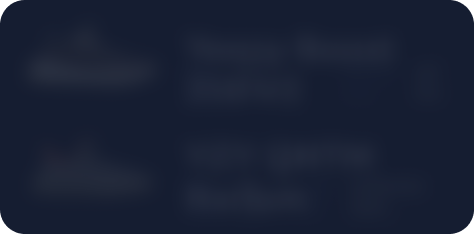
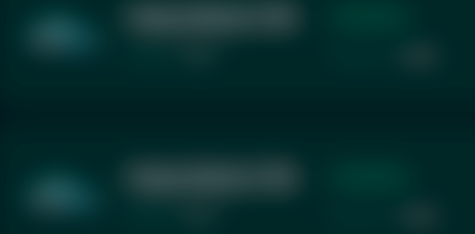
disign

diff --git a/src/components/dashboard-layout/product/components/info/Info.tsx b/src/components/dashboard-layout/product/components/info/Info.tsx
@@ -1,30 +1,30 @@
 import { InfoList } from "../../../../../types/types"
 import Property from "../../../../ui/property/Property"
 import "./info.scss"
-import date_png from "../../../../../assets/imgs/actions/date.png"
-import price_png from "../../../../../assets/imgs/actions/price.png"
+import date_green_png from "../../../../../assets/imgs/actions/date_green.svg"
+import price_green_png from "../../../../../assets/imgs/actions/price_green.svg"
 
 function Info({ info }: { info: (string | null)[] }) {
   const infoList: InfoList[] = [
     {
       title: "Дата покупки",
       value: info[0],
-      img: date_png,
+      img: date_green_png,
     },
     {
       title: "Дата продажи",
       value: info[1],
-      img: date_png,
+      img: date_green_png,
     },
     {
       title: "Цена покупки",
       value: info[2],
-      img: price_png,
+      img: price_green_png,
     },
     {
       title: "Цена продажи",
       value: info[3],
-      img: price_png,
+      img: price_green_png,
     },
   ]
 

diff --git a/src/components/dashboard-layout/statistic/blocks/analysis-block/analysis-size/AnalysisSize.tsx b/src/components/dashboard-layout/statistic/blocks/analysis-block/analysis-size/AnalysisSize.tsx
@@ -2,7 +2,7 @@ import { useDispatch, useSelector } from "react-redux"
 import { newContextBlock } from "../../../../../../redux/slices/dialogSlice"
 import SelectText from "../../../../../ui/selects/SelectText"
 import "./analysis-size.scss"
-import { useRef } from "react"
+import { useEffect, useRef } from "react"
 import AnalysisSizeItem from "./item/AnalysisSizeItem"
 
 function AnalysisSize() {
@@ -35,6 +35,10 @@ function AnalysisSize() {
       )
     }
   }
+
+  useEffect(() => {
+    console.log(currentContext)
+  }, [currentContext])
 
   return (
     <div ref={titleRef} className="analysis-sizes">

diff --git a/src/components/ui/fields/fields.scss b/src/components/ui/fields/fields.scss
@@ -15,7 +15,7 @@
     &__input{
         outline: none;
         border: none;
-        border-bottom: 2px solid #394974;
+        border-bottom: 2px solid $color-quaternary;
         background-color: transparent;
         width: 100%;
         padding: .5em 0;
@@ -23,10 +23,10 @@
         color: #ffffff;
         transition: border-bottom .2s;
         &.active{
-            border-bottom: 2px solid #576eae;
+            border-bottom: 2px solid $color-quaternary-light;
         }
         &::placeholder{
-            color: #394974;
+            color: $color-quaternary;
         }
     }
     .loading{

diff --git a/src/components/ui/selects/selects.scss b/src/components/ui/selects/selects.scss
@@ -40,7 +40,7 @@
         outline: none;
         border: none;
         cursor: pointer;
-        border-bottom: 2px solid #394974;
+        border-bottom: 2px solid $color-quaternary;
         background-color: transparent;
         width: 100%;
         padding: .5em 0;
@@ -48,10 +48,10 @@
         color: #ffffff;
         transition: border-bottom .2s;
         &.active{
-            border-bottom: 2px solid #576eae;
+            border-bottom: 2px solid $color-quaternary-light;
         }
         &::placeholder{
-            color: #394974;
+            color: $color-quaternary;
         }
     }
 }

diff --git a/src/components/dashboard-layout/statistic/blocks/sales-block/SalesBlock.tsx b/src/components/dashboard-layout/statistic/blocks/sales-block/SalesBlock.tsx
@@ -27,7 +27,8 @@ function SalesBlock() {
       dateBuy: "",
       inStore: false,
       isSale: false,
-      priceSale: 0
+      priceSale: 0,
+      dateSale: ""
     },
     {
       id: 2,
@@ -51,7 +52,8 @@ function SalesBlock() {
       dateBuy: "",
       inStore: false,
       isSale: false,
-      priceSale: 0
+      priceSale: 0,
+      dateSale: ""
     },
     {
       id: 3,
@@ -75,7 +77,8 @@ function SalesBlock() {
       dateBuy: "",
       inStore: false,
       isSale: false,
-      priceSale: 0
+      priceSale: 0,
+      dateSale: ""
     }
   ]
 

diff --git a/src/components/dashboard-layout/product/components/card/Card.tsx b/src/components/dashboard-layout/product/components/card/Card.tsx
@@ -49,7 +49,7 @@ function Card() {
             {cardList[0].value 
             ? <>
                 <p className="card__info-name">{currentInfo?.name}</p>
-                <p className="card__info-size">{currentInfo?.sizeEU}</p>
+                <p className="card__info-size">{currentInfo?.sizeEU} EU</p>
                 <ul className="card__property-list">
                     {cardList.map((p:CardList) => <li key={p.title} className="card__property-item">
                         <Property title={p.title} value={p.value} />

diff --git a/src/components/dashboard-layout/inventory/content/products-list/item/preinfo/text/ProductText.tsx b/src/components/dashboard-layout/inventory/content/products-list/item/preinfo/text/ProductText.tsx
@@ -5,7 +5,7 @@ function ProductText({product, flag}: {product: IProducts, flag: "web" | "mobile
 
     return (
         <div className={`product__text-wrapper product__text-wrapper--${flag}`}>
-        <Property attribute="Размер" value={product.sizeEU} />
+        <Property attribute="Размер" value={product.sizeEU + " EU"} />
         <Property attribute="Источник" value={product.brand} />
         <Property attribute="Цвет" value={product.color} />
       </div>

diff --git a/src/styles/variables.scss b/src/styles/variables.scss
@@ -3,8 +3,9 @@ $color-primary: #24ba7d;
 $color-secondary: #172A2A;
 $color-tertiary: #1f3737;
 $color-quaternary: #284640;
+$color-quaternary-light: #335851;
 $color-text: #609f94;
-$color-text--active: #79a0bc;
+$color-text--active: #76bbb0;
 $color-scrollbar: #89d4a3;
 $color-scrollbar-track: #0f2a31;
 $color-success: #28a745;

diff --git a/src/components/dialogs/add-product/AddProductDialog.tsx b/src/components/dialogs/add-product/AddProductDialog.tsx
@@ -40,7 +40,8 @@ function AddProductDialog() {
     city: "",
     placeOfTransaction: "",
     checkedFitting: false,
-    isSale: false
+    isSale: false,
+    dateSale: "",
   })
   const [brandsList, setBrandsList] = useState<IDataSelect[]>([])
   const [conditionsList, setConditionsList] = useState<IDataSelect[]>([])

diff --git a/src/components/ui/buttons/button.scss b/src/components/ui/buttons/button.scss
@@ -6,7 +6,7 @@
     justify-content: center;
     font-size: 14px;
     border: none;
-    background: linear-gradient(90deg, rgba(86,204,242,1) 0%, rgba(45,156,219,1) 100%);
+    background: $color-primary;
     border-radius: 18px;
     padding: .8em 2em;
     box-sizing: border-box;

diff --git a/src/components/dashboard-layout/inventory/tabs/inventory-tabs.scss b/src/components/dashboard-layout/inventory/tabs/inventory-tabs.scss
@@ -18,7 +18,7 @@
                 left: 0;
                 height: 2px;
                 width: 100%;
-                background-color: #394974;
+                background-color: $color-quaternary;
                 z-index: 1;
             }
         }

diff --git a/src/components/ui/checkbox/checkbox.scss b/src/components/ui/checkbox/checkbox.scss
@@ -1,6 +1,8 @@
+@use "../../../styles/variables.scss" as *;
+
 .checkbox {
     display: flex;
-    border: 2px solid #394974;
+    border: 2px solid $color-quaternary;
     border-radius: 2px;
     width: 22px;
     min-width: 22px;
